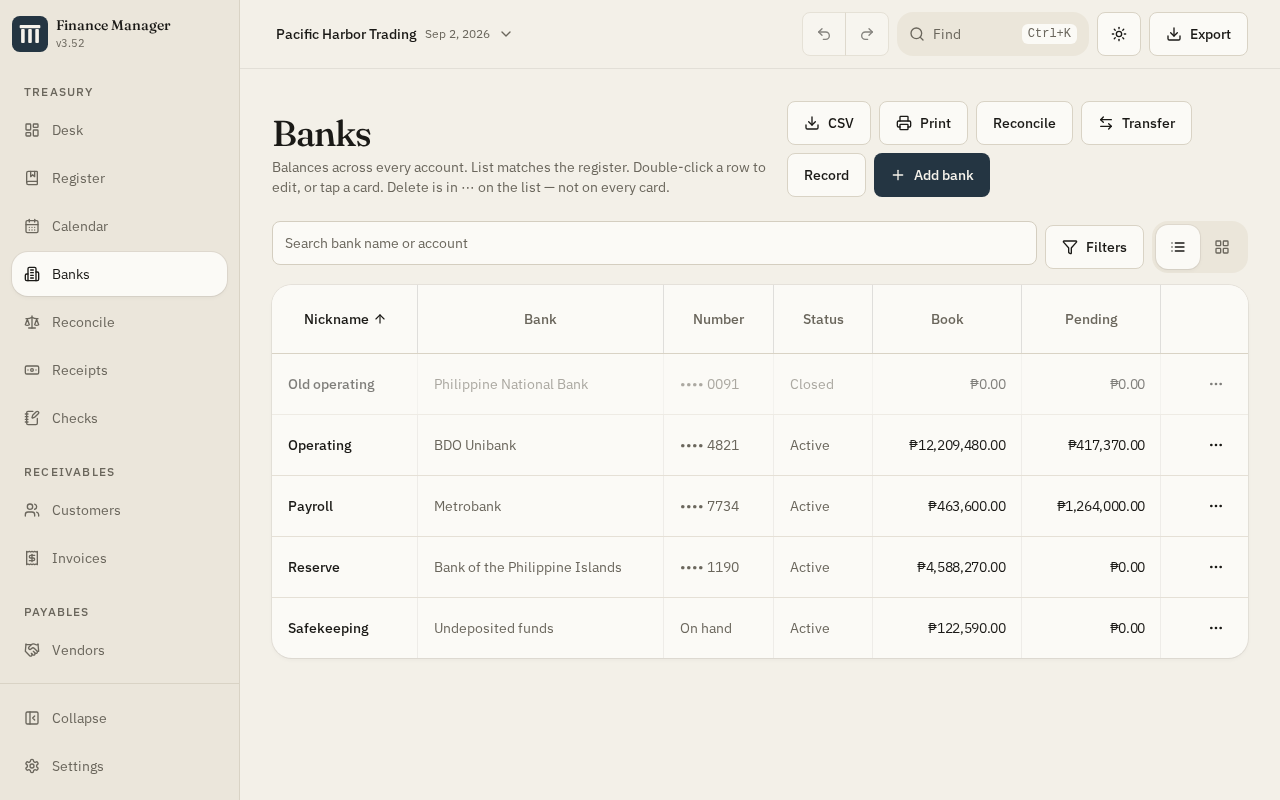
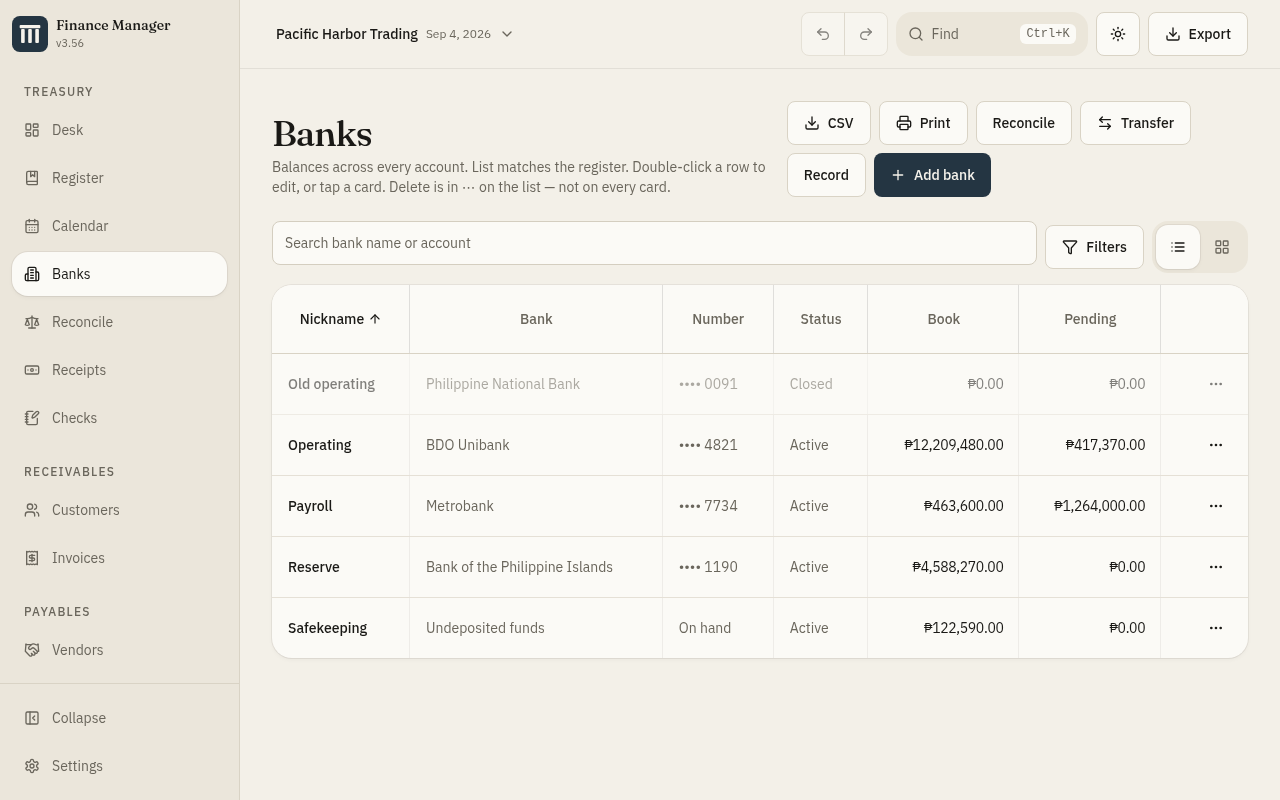
docs: README v3.56, Employees section, fresh screenshots
Refresh product shots (desk, banks, register, employees, reports, reconcile, phone). Document Employees filters/sort and What’s new. Sidebar label Options.

diff --git a/src/components/app-shell.tsx b/src/components/app-shell.tsx
@@ -190,7 +190,7 @@ function SidebarBody({
           )}
         >
           <Settings className="size-4 shrink-0" />
-          {rail ? null : "Settings"}
+          {rail ? null : "Options"}
         </Link>
       </div>
     </div>

diff --git a/README.md b/README.md
@@ -1,6 +1,6 @@
-# Finance Manager v3.54
+# Finance Manager v3.56
 
-Treasury books in a **desktop window**, and in the browser. Banks, receipts, checks, invoices, bills, and a **bank register**.
+Treasury books in a **desktop window**, and in the browser. Banks, receipts, checks, invoices, bills, **employees**, and a **bank register**.
 
 Pacific Harbor Trading is the default **sample company** — a 2026 year of trading (rent, payroll, utilities, invoices, bills) plus extra trade so the file sits near **1,000 documents**. Payee is the customer or vendor name; memo is the reason (Ayala Land / Warehouse rent — never one string). Every payee is on file. Listed A–Z. Activity through late August is posted; later months sit pending. Create more companies from the name in the header or from Settings. **Remove sample** (Settings) deletes that file from this browser; **Restore last local copy** puts back the last automatic snapshot, and Reload sample brings the demo back. If it was the only company, a blank file takes its place.
 
@@ -10,6 +10,14 @@ No accounts, no server setup. Books stay on this computer (IndexedDB). Settings 
 
 The app mark is a **navy tile with cream pillars** — a full opaque square (Windows 11 already rounds the tile; transparent corners were a white plate). Web uses the SVG favicon. Windows uses a **BMP 32-bit** `.ico` (PNG-in-ICO is a white square on the shortcut and the taskbar). After install, **delete any leftover blank shortcut** and pin the new one — Explorer caches the last icon.
 
+
+
+## What’s new in v3.56
+
+- **Employees** roster with search, status/pay-type filters, column sort, and paycheck posting
+- Local calendar dates (Manila-safe), purge/register balance fix, In/Out window balance, Output VAT split
+- Register Post dropdowns stack above dialogs; softer hover scrollbars; Settings labeled **Options**
+- Company backup includes employees; Tauri package version aligned to 3.56
 
 ## Install and deploy
 
@@ -37,6 +45,10 @@ Lists (banks, register, receipts, checks, reports, reconcile) wrap actions and k
 
 ![Banks](docs/screenshots/banks.png)
 
+![Bank register](docs/screenshots/register.png)
+
+![Employees](docs/screenshots/employees.png)
+
 ![Reports aging](docs/screenshots/reports.png)
 
 ![Reconcile](docs/screenshots/reconcile.png)
@@ -55,7 +67,7 @@ Books do **not** follow you to another phone or laptop. Download a backup on one
 - Last balance in the strip is the end of **this window**, in document flow — it does not stick over search or filters. Desk is still the full cash position.
 - The bank tab you were on comes back after a refresh. Hidden columns and type size live in the company file; light/dark is a browser preference. Search, delete-unlock, and drag do not stick — those are easy to leave on by accident.
 - Switch banks with the tabs above the table — that is the book you are in
-- One search bar plus **Filters** (period, type, in/out, sort) and **View** (columns, type size, delete, drag). On a phone search is its own row, then In / Out / Last balance, then Move / Filters / View (swipe if they do not fit). Bank tabs stay one row and scroll sideways — Safekeeping does not wrap under Payroll. On a narrow screen the table keeps Date, No., Payee, Payment, Deposit, and Balance — Type, Memo, Bank, and Status hide so payee names are not clipped. Swipe the book for the rest, or turn columns back on from View on a wide screen. Dates drop the year when it is this year (`Sep 1`). The register is a list only — cards would break the running balance. **Every other table uses the same family:** click a header to sort, drag the column line to resize, double-click the line to auto-fit, search, and a **Filters** popover (Month / Year / All dates, type or status, sort). That includes invoices, bills, receipts, checks, banks, ledger, customer/vendor history, and reconcile. Tight lists keep **Status on the row** and put extra work in **⋯** (Collect + Print/Void/Delete on invoices; Pay on bills) so buttons never paint over Status. If the card is tighter than the columns, a thin scrollbar appears — no dark fade. **Move** (tick column) stays on the register only.
+- One search bar plus **Filters** (period, type, in/out, sort) and **View** (columns, type size, delete, drag). On a phone search is its own row, then In / Out / Last balance, then Move / Filters / View (swipe if they do not fit). Bank tabs stay one row and scroll sideways — Safekeeping does not wrap under Payroll. On a narrow screen the table keeps Date, No., Payee, Payment, Deposit, and Balance — Type, Memo, Bank, and Status hide so payee names are not clipped. Swipe the book for the rest, or turn columns back on from View on a wide screen. Dates drop the year when it is this year (`Sep 1`). The register is a list only — cards would break the running balance. **Every other table uses the same family:** click a header to sort, drag the column line to resize, double-click the line to auto-fit, search, and a **Filters** popover (Month / Year / All dates, type or status, sort). That includes invoices, bills, receipts, checks, employees, banks, ledger, customer/vendor history, and reconcile. Tight lists keep **Status on the row** and put extra work in **⋯** (Collect + Print/Void/Delete on invoices; Pay on bills) so buttons never paint over Status. If the card is tighter than the columns, a thin scrollbar appears — no dark fade. **Move** (tick column) stays on the register only.
 - **Post** sits next to Print. Type is a dropdown: Check, Cash sale, Receive payment, Transfer, Vendor pay, Deposit, Expense. **Last type sticks** (Check the first time). **Tab order is Date → Payee → Amount → Memo → Bank.** Date autofocuses. Date is a typeable combo (`08312026`, `08/31/26`, or `08/31/2026`). Click the chevron for a calendar. **T** = today, **+** / **−** bump a day. Last date sticks like Type. Enter posts. The button reads **Saved** for a beat, then the line clears and Date is ready again. Esc or Close leaves. Double-click a register line (check, cash sale, transfer, deposit, expense) opens **the same window** in Save mode. Receive payment and on-account receipts still use the allocation window. Bills stay bills.
 - **Issue check** and **Receive** in the header still open the full forms when you need line items or a printed check. On a phone those two plus Reconcile live in the menu — the register keeps Post, Print, and CSV.
 - The header sits on the page ground — no white bar. In / Out / Last balance is the same: ink on the page, not a card. Search and filters sit above the book without a second white well. The register table is the figure.
@@ -76,7 +88,7 @@ Books do **not** follow you to another phone or laptop. Download a backup on one
 - **Close** (Books): rec every live bank through the date, post recurring, trial balance in balance. Desk banner **Post rent** (or Post N due) writes every recurrence through month-end and rolls next dates — same as Settings → Recurring → Post. **Print the period pack** (TB, P&L by account for the month and YTD, AR/AP aging as of the date, each finished rec report, open customer statements) — that is the review. There is no aging checkbox. Close posts a **close journal**; those bank balances as of the close date are the **opening fact** for the next month’s register (the first row reads Closed through that date). Reopen is a dated audit event (type REOPEN), not a toggle.
 - **Reconcile**: beginning is the **last finished statement ending** (or bank opening). Tick what is on the paper — the tick column is always on this page (Move is only on the register). Outstanding checks and deposits in transit stay off the statement and prove the book. Proof is two boards: **Statement** (beginning, cleared in/out, cleared difference) and **Book** (book, outstanding, in transit, explained difference). Amounts stay on one line. **Cleared difference** and **explained difference** must both be **0**. Post a service charge or interest from this screen if the bank has a line the books do not — those freeze as adjustments on the rec document. **Last statement** prints the frozen rec (named outstanding, DIT, adjustments, 30/60/90). **Undo last** requires UNDO and is blocked inside a closed period. Register click only cycles Pending ↔ C. **R is Finish statement**, not a register click, and it survives a restore. Uncleared 90+ days is called out.
 - **Audit** on Close: who (this browser), what, old/new, timestamp. Export CSV. Merge writes both sides.
-- **Settings → Company file**: one JSON that **is** this company (recon, close, audit included). **Save company file** / Open. Open replaces this company or adds that file. There is no “download this company” and no “download all companies” — the local copy in this browser is first; Settings → **Save company file** is the off-device backup (header Export is spreadsheets only). After every successful save this browser also writes a **local copy** (IndexedDB, one slot per company, timestamped). **Restore last local copy** puts that snapshot back for the company you are in; if you removed the sample, that is how it returns without Reload sample. Settings → Storage shows IndexedDB vs fallback, whether the browser granted **persistent** storage (so it is less likely to evict the books), and usage. There is no cloud. Tables are flat: banks, customers, vendors, invoices, bills, receipts, checks, journals (lines stay on the journal), and the rest. Parties do not nest transactions. New ids are UUIDs.
+- **Settings → Company file**: one JSON that **is** this company (recon, close, audit included). **Save company file** / Open. Open replaces this company or adds that file. There is no “download this company” and no “download all companies” — the local copy in this browser is first; Settings → **Save company file** is the off-device backup (header Export is spreadsheets only). After every successful save this browser also writes a **local copy** (IndexedDB, one slot per company, timestamped). **Restore last local copy** puts that snapshot back for the company you are in; if you removed the sample, that is how it returns without Reload sample. Settings → Storage shows IndexedDB vs fallback, whether the browser granted **persistent** storage (so it is less likely to evict the books), and usage. There is no cloud. Tables are flat: banks, customers, vendors, employees, invoices, bills, receipts, checks, journals (lines stay on the journal), and the rest. Parties do not nest transactions. New ids are UUIDs.
 - **Settings → Recurring**: warehouse rent is due in the sample (1 Aug) so August cannot close until you post it.
 
 The register is still the book. These are how you close it.
@@ -145,7 +157,7 @@ A month is tens of rows. A year is the sample. **All dates** on screen is last c
 
 Reload the sample from Settings anytime, or **Remove sample** to drop it from this browser.
 
-The menu is a framed rail: it does not scroll with the books. **Settings** and **Collapse** stay pinned at the bottom. Only the workspace on the right scrolls. The register virtualizes against that pane so tens of thousands of lines still paint only what is on screen. Dialogs snap open with no fade.
+The menu is a framed rail: it does not scroll with the books. **Options** (Settings) and **Collapse** stay pinned at the bottom. Only the workspace on the right scrolls. The register virtualizes against that pane so tens of thousands of lines still paint only what is on screen. Dialogs snap open with no fade.
 
 ## Lists (invoices, bills, receipts, checks)
 
@@ -159,6 +171,16 @@ The same muscle memory as the register, without turning those pages into a secon
 
 Customers and Vendors are tens of rows — they are **not** virtualized. The lag killer for thousands of entries is still the register’s month window plus one rolled opening, not a 50,000-row invoice grid.
 
+
+## Employees
+
+**Employees** is a QuickBooks-style roster: name, title, pay type (salary / hourly), rate, default pay bank, hire date, and active/inactive.
+
+- Search the roster; filter **All / Active / Inactive** and **Any pay / Salary / Hourly**.
+- Click a column header to sort (name, title, rate, bank, status). Filters popover has the same sort shortcuts.
+- **Pay** posts a paycheck as a check from the chosen bank to Payroll expense — it lands in Register and Checks. (Thin payroll: no withholdings or YTD yet.)
+- Company backup / Save company file includes the employees table (file version 14).
+
 ## Customers and vendors
 
 **List** is a sortable, resizable directory (Name, Contact, Email, Phone, Open) — text titles centered, money titles over the figures, hairline resize, and double-click auto-fit as the register. On a phone the list keeps Name and Open. **Cards** is a contact grid. Filter **All / Open / Zero** lives in the **Filters** popover (Month / Year / All dates on history). The toggle sticks after a refresh. On a wide screen, click a row to select it; double-click or Enter opens Details. On a phone, **tap a name (or a card) to open its history**. Date / No. / Amount / Balance stay on screen in history.
@@ -167,6 +189,6 @@ In cards view, click the sort label to cycle **Name A–Z → Name Z–A → hig
 
 ## Elsewhere
 
-**Desk** is cash across banks, a 90-day sparkline, overdue invoices, and open bills. Forecast is the same path plus budget items. **Customers** and **Vendors** are QuickBooks-style centers (list + transactions). Click selects; double-click or Enter opens. **Ledger** and **Reports** are the books.
+**Desk** is cash across banks, a 90-day sparkline, overdue invoices, and open bills. Forecast is the same path plus budget items. **Employees**, **Customers**, and **Vendors** are QuickBooks-style centers (list + transactions). Click selects; double-click or Enter opens. **Ledger** and **Reports** are the books.
 
 Checks already **void** (the row and number stay, the amount goes to zero) as well as delete (unlocked in View, confirm DELETE). **Close** freezes the period once recs, recurring, and trial balance are clean.
